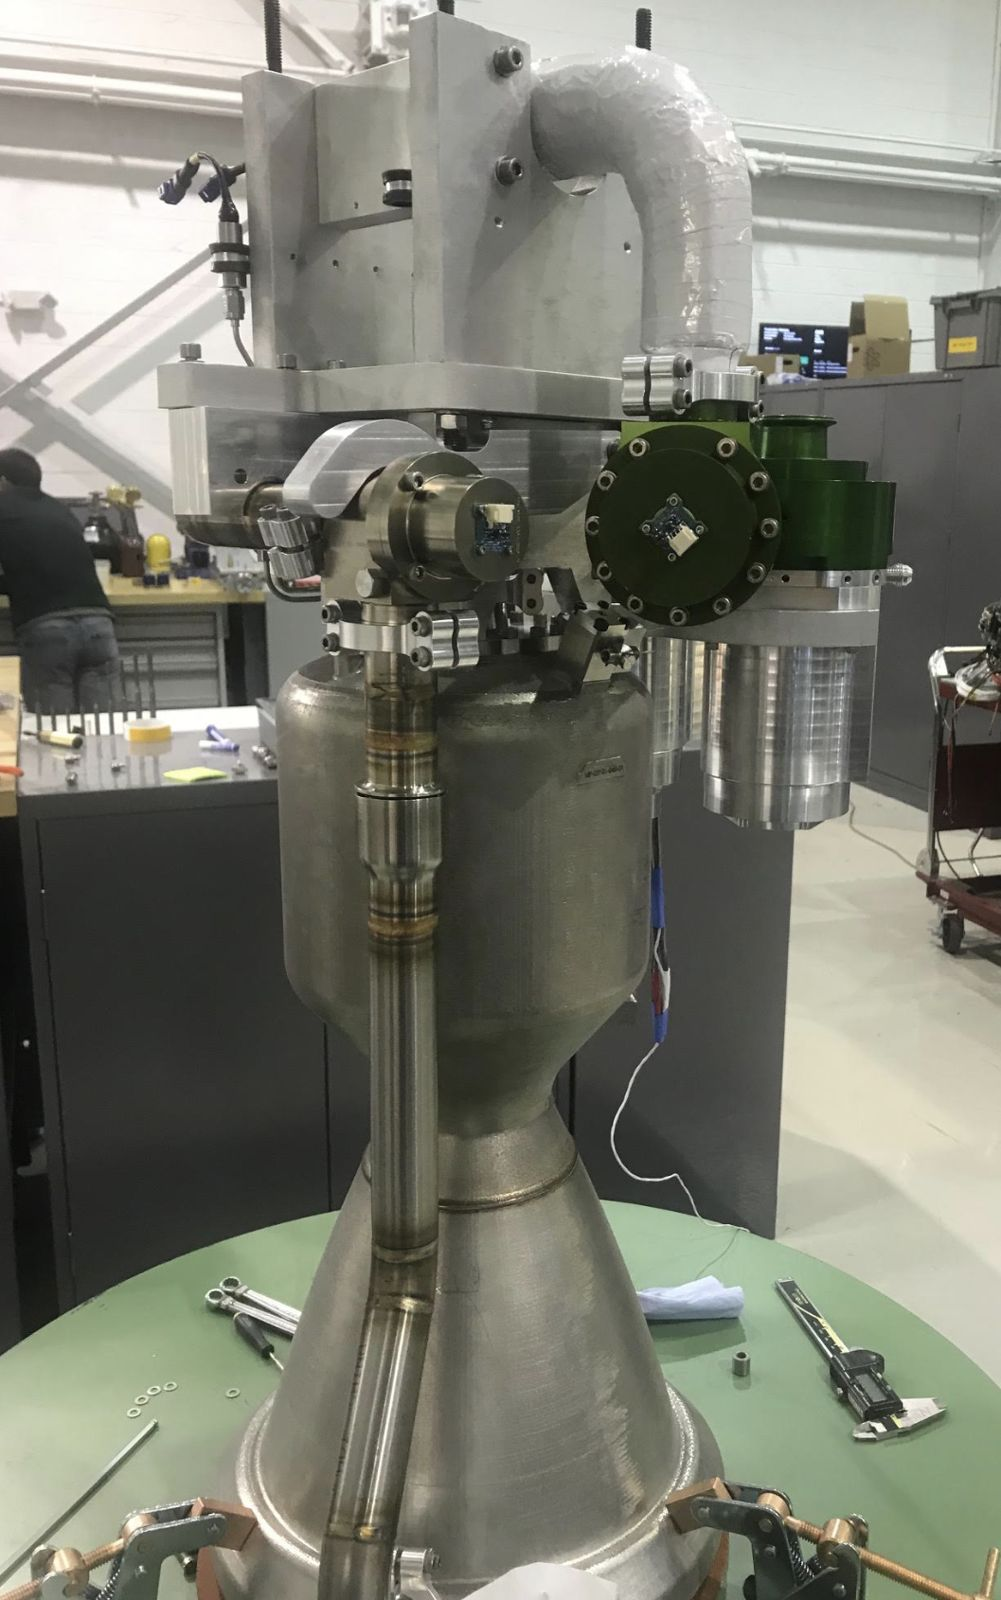
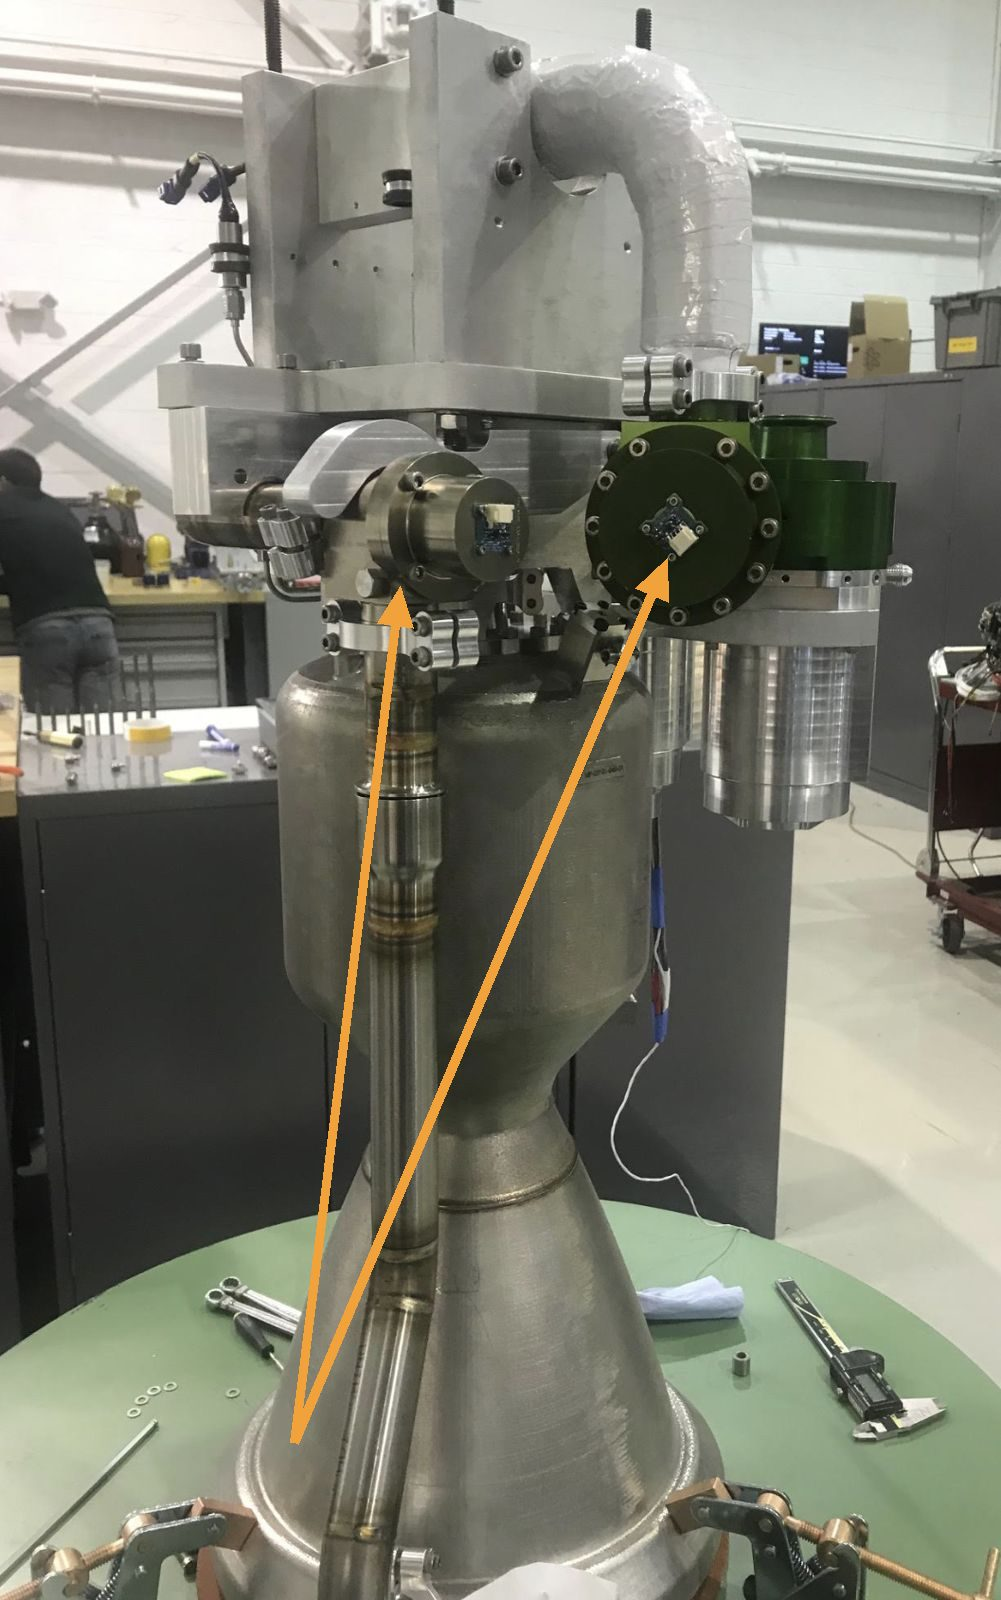
Blue Origin/Astra: arrows on hardware photos, corrected labels, uncropped layout
Claude-Session: https://claude.ai/code/session_013UYRauKDmfXKmRNsvbRT7h

diff --git a/index.html b/index.html
@@ -108,6 +108,10 @@ details[open] .chev{transform:rotate(180deg)}
 .h2{grid-row:span 2}.h3{grid-row:span 3}.h4{grid-row:span 4}.h5{grid-row:span 5}.h6{grid-row:span 6}
 @media (max-width:760px){.grid{grid-template-columns:repeat(2,minmax(0,1fr));grid-auto-rows:120px}.grid>*{grid-column:span 2!important;grid-row:span 2!important}.grid>.half{grid-column:span 1!important}}
 
+.jrows{display:flex;flex-direction:column;gap:10px}
+.jrow{display:flex;gap:10px}
+.jrow>.ph{flex:var(--ar) 1 0;aspect-ratio:var(--ar);min-width:0}
+@media (max-width:640px){.jrow{flex-direction:column}.jrow>.ph{flex:none;width:100%}}
 .cards{display:grid;grid-template-columns:repeat(auto-fill,minmax(230px,1fr));gap:10px}
 .card{display:flex;flex-direction:column;gap:4px;padding:12px 14px;border:1px solid var(--rule);border-radius:4px;background:var(--bg);text-decoration:none;color:var(--ink);transition:border-color .15s}
 .card:hover{border-color:var(--accent)}
@@ -374,14 +378,20 @@ dialog#lb button{position:fixed;top:max(14px,env(safe-area-inset-top,0px));right
         <span class="chev" aria-hidden="true"></span>
       </summary>
       <div class="body">
-        <div class="grid">
-          <button class="ph w4 h6" data-cap="Engine with my main oxygen and fuel valves"><img src="img/astra-engine-valves.jpg" alt="Rocket engine on a stand with main oxygen and fuel valves" loading="lazy"><span class="tag"><span class="mine">Main LOX &amp; fuel valves</span></span></button>
-          <button class="ph w8 h4" data-cap="Upper-stage thrust vector control actuators, installed"><img src="img/astra-tvc-installed.jpg" alt="Gold thrust vector control actuators installed on the upper-stage engine" loading="lazy"><span class="tag"><span class="mine">Upper-stage TVC actuators</span></span></button>
-          <button class="ph w8 h2" data-cap="Upper-stage TVC actuator on the bench"><img src="img/astra-tvc-bench.jpg" alt="Thrust vector control actuator on a workbench" loading="lazy" style="object-position:center 40%"><span class="tag"><span class="mine">TVC actuator</span></span></button>
-          <button class="ph w5 h4" data-cap="Rocket 3 aft end, base heat shield removed"><img src="img/astra-aft-end.jpg" alt="Rocket 3 aft end showing five engines" loading="lazy"><span class="tag"><span>Rocket 3 aft end</span></span></button>
-          <button class="ph w7 h4" data-cap="Aft section after a successful leak check"><img src="img/astra-aft-leakcheck.jpg" alt="Mallory and teammates beside the aft section after a leak check" loading="lazy"><span class="tag"><span>After a successful leak check</span></span></button>
-          <button class="ph fit w7 h4" data-cap="Cryogenic leak-check rig · piping and instrumentation diagram"><img src="img/astra-leak-rig-pid.jpg" alt="Piping and instrumentation diagram of the cryogenic leak-check rig" loading="lazy"><span class="tag"><span class="mine">Cryo leak-check rig · P&amp;ID</span></span></button>
-          <button class="ph w5 h4" data-cap="The leak-check rig in use by my intern, Sarah"><img src="img/astra-leak-rig-intern.jpg" alt="Intern operating the leak-check rig panel" loading="lazy" style="object-position:center 30%"><span class="tag"><span class="mine">Leak-check rig in use</span></span></button>
+        <div class="jrows">
+          <div class="jrow">
+            <button class="ph" style="--ar:0.6256" data-cap="Engine with my main oxygen and fuel valves"><img src="img/astra-engine-valves.jpg" alt="Rocket engine on a stand, arrows pointing to the main oxygen and fuel valves" loading="lazy"><span class="tag"><span class="mine">Main LOX &amp; fuel valves</span></span></button>
+            <button class="ph" style="--ar:1.3457" data-cap="Upper-stage thrust vector control actuators, installed"><img src="img/astra-tvc-installed.jpg" alt="Gold thrust vector control actuators installed on the upper-stage engine" loading="lazy"><span class="tag"><span class="mine">Upper-stage TVC actuators</span></span></button>
+          </div>
+          <div class="jrow">
+            <button class="ph" style="--ar:1.9975" data-cap="Upper-stage TVC actuator on the bench"><img src="img/astra-tvc-bench.jpg" alt="Thrust vector control actuator on a workbench" loading="lazy"><span class="tag"><span class="mine">TVC actuator</span></span></button>
+            <button class="ph" style="--ar:1.0153" data-cap="Rocket 3 aft end, base heat shield removed"><img src="img/astra-aft-end.jpg" alt="Rocket 3 aft end showing five engines" loading="lazy"><span class="tag"><span>Rocket 3 aft end</span></span></button>
+          </div>
+          <div class="jrow">
+            <button class="ph" style="--ar:1.3194" data-cap="Aft section after a successful leak check"><img src="img/astra-aft-leakcheck.jpg" alt="Mallory and teammates beside the aft section after a leak check" loading="lazy"><span class="tag"><span>After a successful leak check</span></span></button>
+            <button class="ph fit" style="--ar:1.6546" data-cap="Cryogenic leak-check rig · piping and instrumentation diagram"><img src="img/astra-leak-rig-pid.jpg" alt="Piping and instrumentation diagram of the cryogenic leak-check rig" loading="lazy"><span class="tag"><span class="mine">Cryo leak-check rig · P&amp;ID</span></span></button>
+            <button class="ph" style="--ar:0.75" data-cap="The leak-check rig in use by my intern, Sarah"><img src="img/astra-leak-rig-intern.jpg" alt="Intern operating the leak-check rig panel" loading="lazy"><span class="tag"><span class="mine">Leak-check rig in use</span></span></button>
+          </div>
         </div>
         <div class="cards">
           <a class="card" href="https://arstechnica.com/science/2021/11/astras-quick-and-dirty-development-plan-pays-off-as-its-rocket-goes-orbital/"><span class="k">In the news · Nov 2021</span><b>Astra becomes the fastest rocket company to reach orbit ↗</b><span>Ars Technica · Rocket 3</span></a>
@@ -394,19 +404,19 @@ dialog#lb button{position:fixed;top:max(14px,env(safe-area-inset-top,0px));right
       <summary>
         <span class="logo" style="--lc:#1f3c88">BO<img src="https://www.google.com/s2/favicons?domain=blueorigin.com&amp;sz=128" alt="" onerror="this.remove()"></span>
         <span class="who"><h2>Blue Origin</h2><p>Propulsion Development &amp; Structural Design Engineer · <span class="yr">2013–2018</span></p></span>
-        <span class="strip" aria-hidden="true"><img src="img/bo-be4-closeup.jpg" alt=""><img src="img/bo-drogue-cover.jpg" alt=""><img src="img/bo-spin-start-rig.jpg" alt=""></span>
+        <span class="strip" aria-hidden="true"><img src="img/bo-be4-closeup.jpg" alt=""><img src="img/bo-drogue-cover.jpg" alt=""><img src="img/bo-mfv-cryo.jpg" alt=""></span>
         <span class="chev" aria-hidden="true"></span>
       </summary>
       <div class="body">
-        <div class="lead">
-          <span class="chip ms"><b>LANDED</b>New Shepard: first booster to land vertically after reaching space, Nov 2015</span>
-          <span class="chip"><b>TRADE</b>New Glenn aft thrust structure for seven BE-4s, presented to executives</span>
-        </div>
-        <div class="grid">
-          <button class="ph w5 h6" data-cap="BE-4 engine · main fuel valve"><img src="img/bo-be4-standing.jpg" alt="Mallory standing beside a BE-4 engine" loading="lazy"><span class="tag"><span class="mine">BE-4 main fuel valve</span></span></button>
-          <button class="ph w7 h4" data-cap="BE-4 boost pump · I led the dynamometer characterization tests"><img src="img/bo-be4-closeup.jpg" alt="Close-up of BE-4 engine turbomachinery" loading="lazy" style="object-position:center 35%"><span class="tag"><span class="mine">Boost pump · dyno test lead</span></span></button>
-          <button class="ph w7 h2" data-cap="Turbopump spin-start subsystem testing"><img src="img/bo-spin-start-rig.jpg" alt="Spin-start test hardware in a test cell" loading="lazy"><span class="tag"><span class="mine">Spin-start testing</span></span></button>
-          <button class="ph w12 h5" data-cap="New Shepard drogue parachute cover · the capsule nose ring was also mine (not pictured)"><img src="img/bo-drogue-cover.jpg" alt="Mallory inspecting a drogue parachute cover with the New Shepard capsule behind" loading="lazy" style="object-position:center 40%"><span class="tag"><span class="mine">New Shepard drogue parachute cover</span><span>Capsule nose ring also mine · not pictured</span></span></button>
+        <div class="jrows">
+          <div class="jrow">
+            <button class="ph" style="--ar:0.7025" data-cap="BE-4 · I led testing of the LOx boost pump and spin-start subsystems"><img src="img/bo-be4-standing.jpg" alt="Mallory beside a BE-4 engine, arrows pointing to the LOx boost pump and spin-start hardware" loading="lazy"><span class="tag"><span class="mine-role">LOx boost pump &amp; spin-start subsystems test lead</span></span></button>
+            <button class="ph" style="--ar:0.9031" data-cap="BE-4 main fuel valve"><img src="img/bo-be4-closeup.jpg" alt="Close-up of the BE-4 engine, arrow pointing to the main fuel valve" loading="lazy"><span class="tag"><span class="mine">BE-4 main fuel valve</span></span></button>
+            <button class="ph" style="--ar:1.3389" data-cap="New Shepard drogue parachute cover · the capsule nose ring was also mine (not pictured)"><img src="img/bo-drogue-cover.jpg" alt="Mallory inspecting a drogue parachute cover with the New Shepard capsule behind" loading="lazy"><span class="tag"><span class="mine">New Shepard drogue parachute cover</span><span>Capsule nose ring also mine · not pictured</span></span></button>
+          </div>
+          <div class="jrow">
+            <button class="ph" style="--ar:2.9977" data-cap="Main fuel valve cryo testing"><img src="img/bo-mfv-cryo.jpg" alt="Main fuel valve on a cryogenic test stand, frosted lines" loading="lazy"><span class="tag"><span>Main fuel valve cryo testing</span></span></button>
+          </div>
         </div>
         <div class="cards">
           <a class="card" href="https://www.scientificamerican.com/article/blue-origin-makes-historic-reusable-rocket-landing-in-epic-test-flight/"><span class="k">In the news · Nov 2015</span><b>Blue Origin makes historic reusable rocket landing ↗</b><span>Scientific American · New Shepard</span></a>
